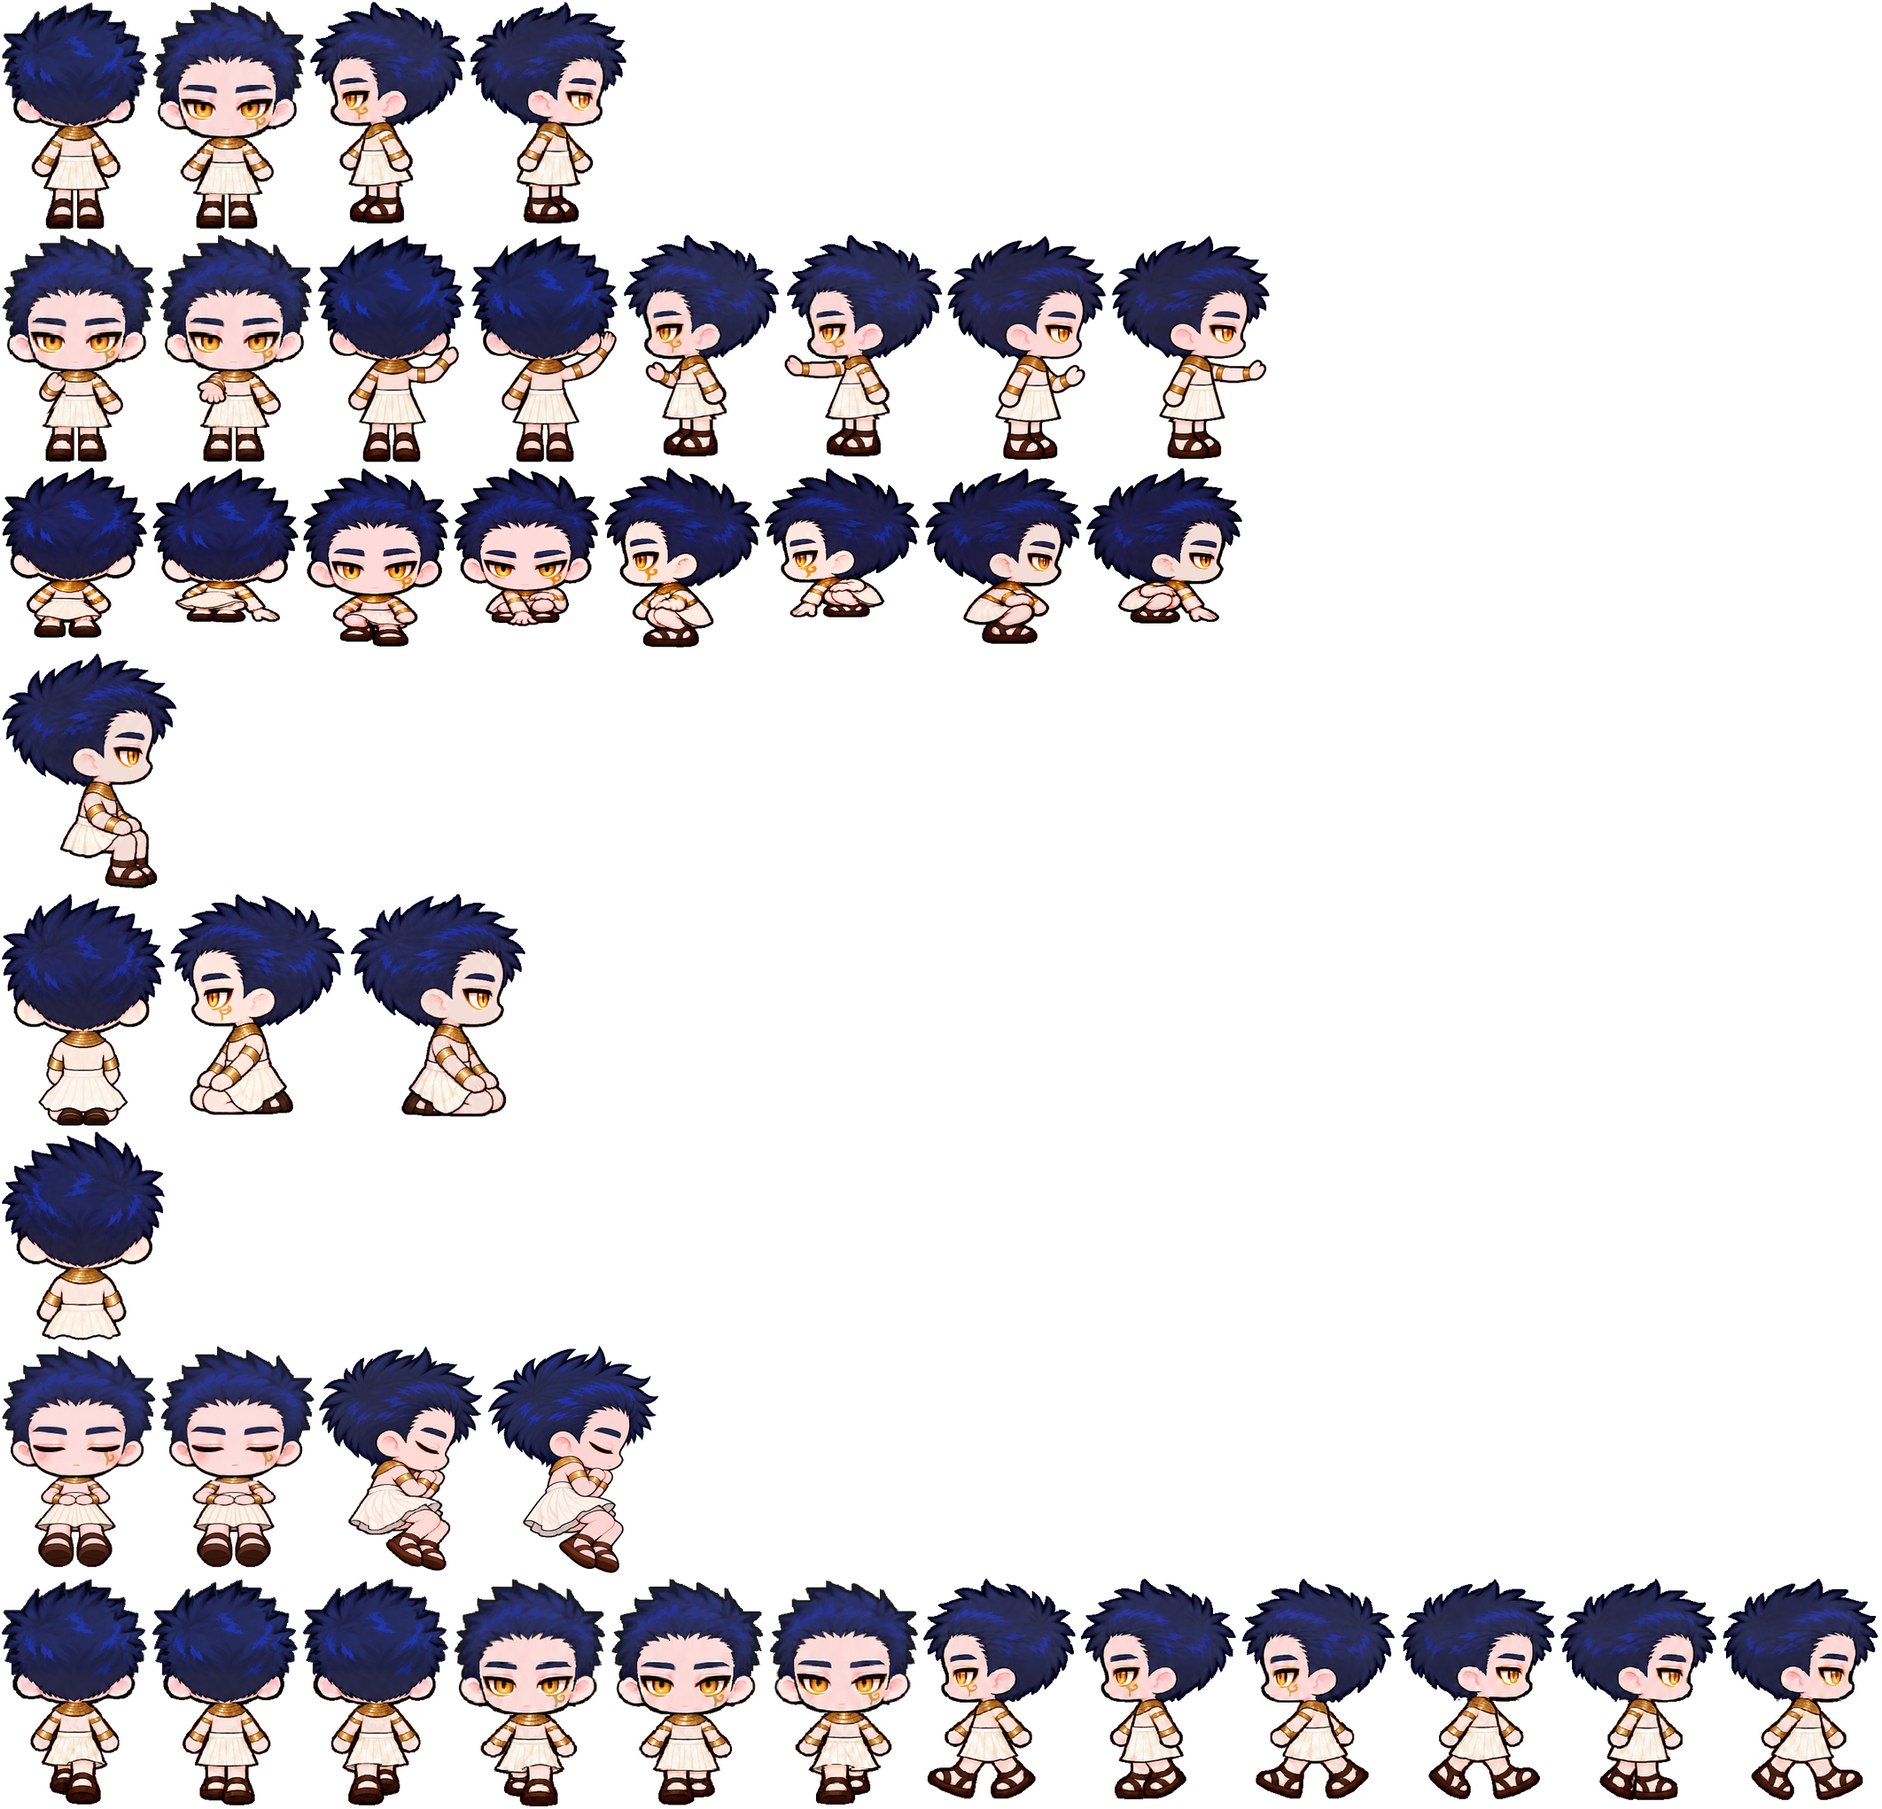
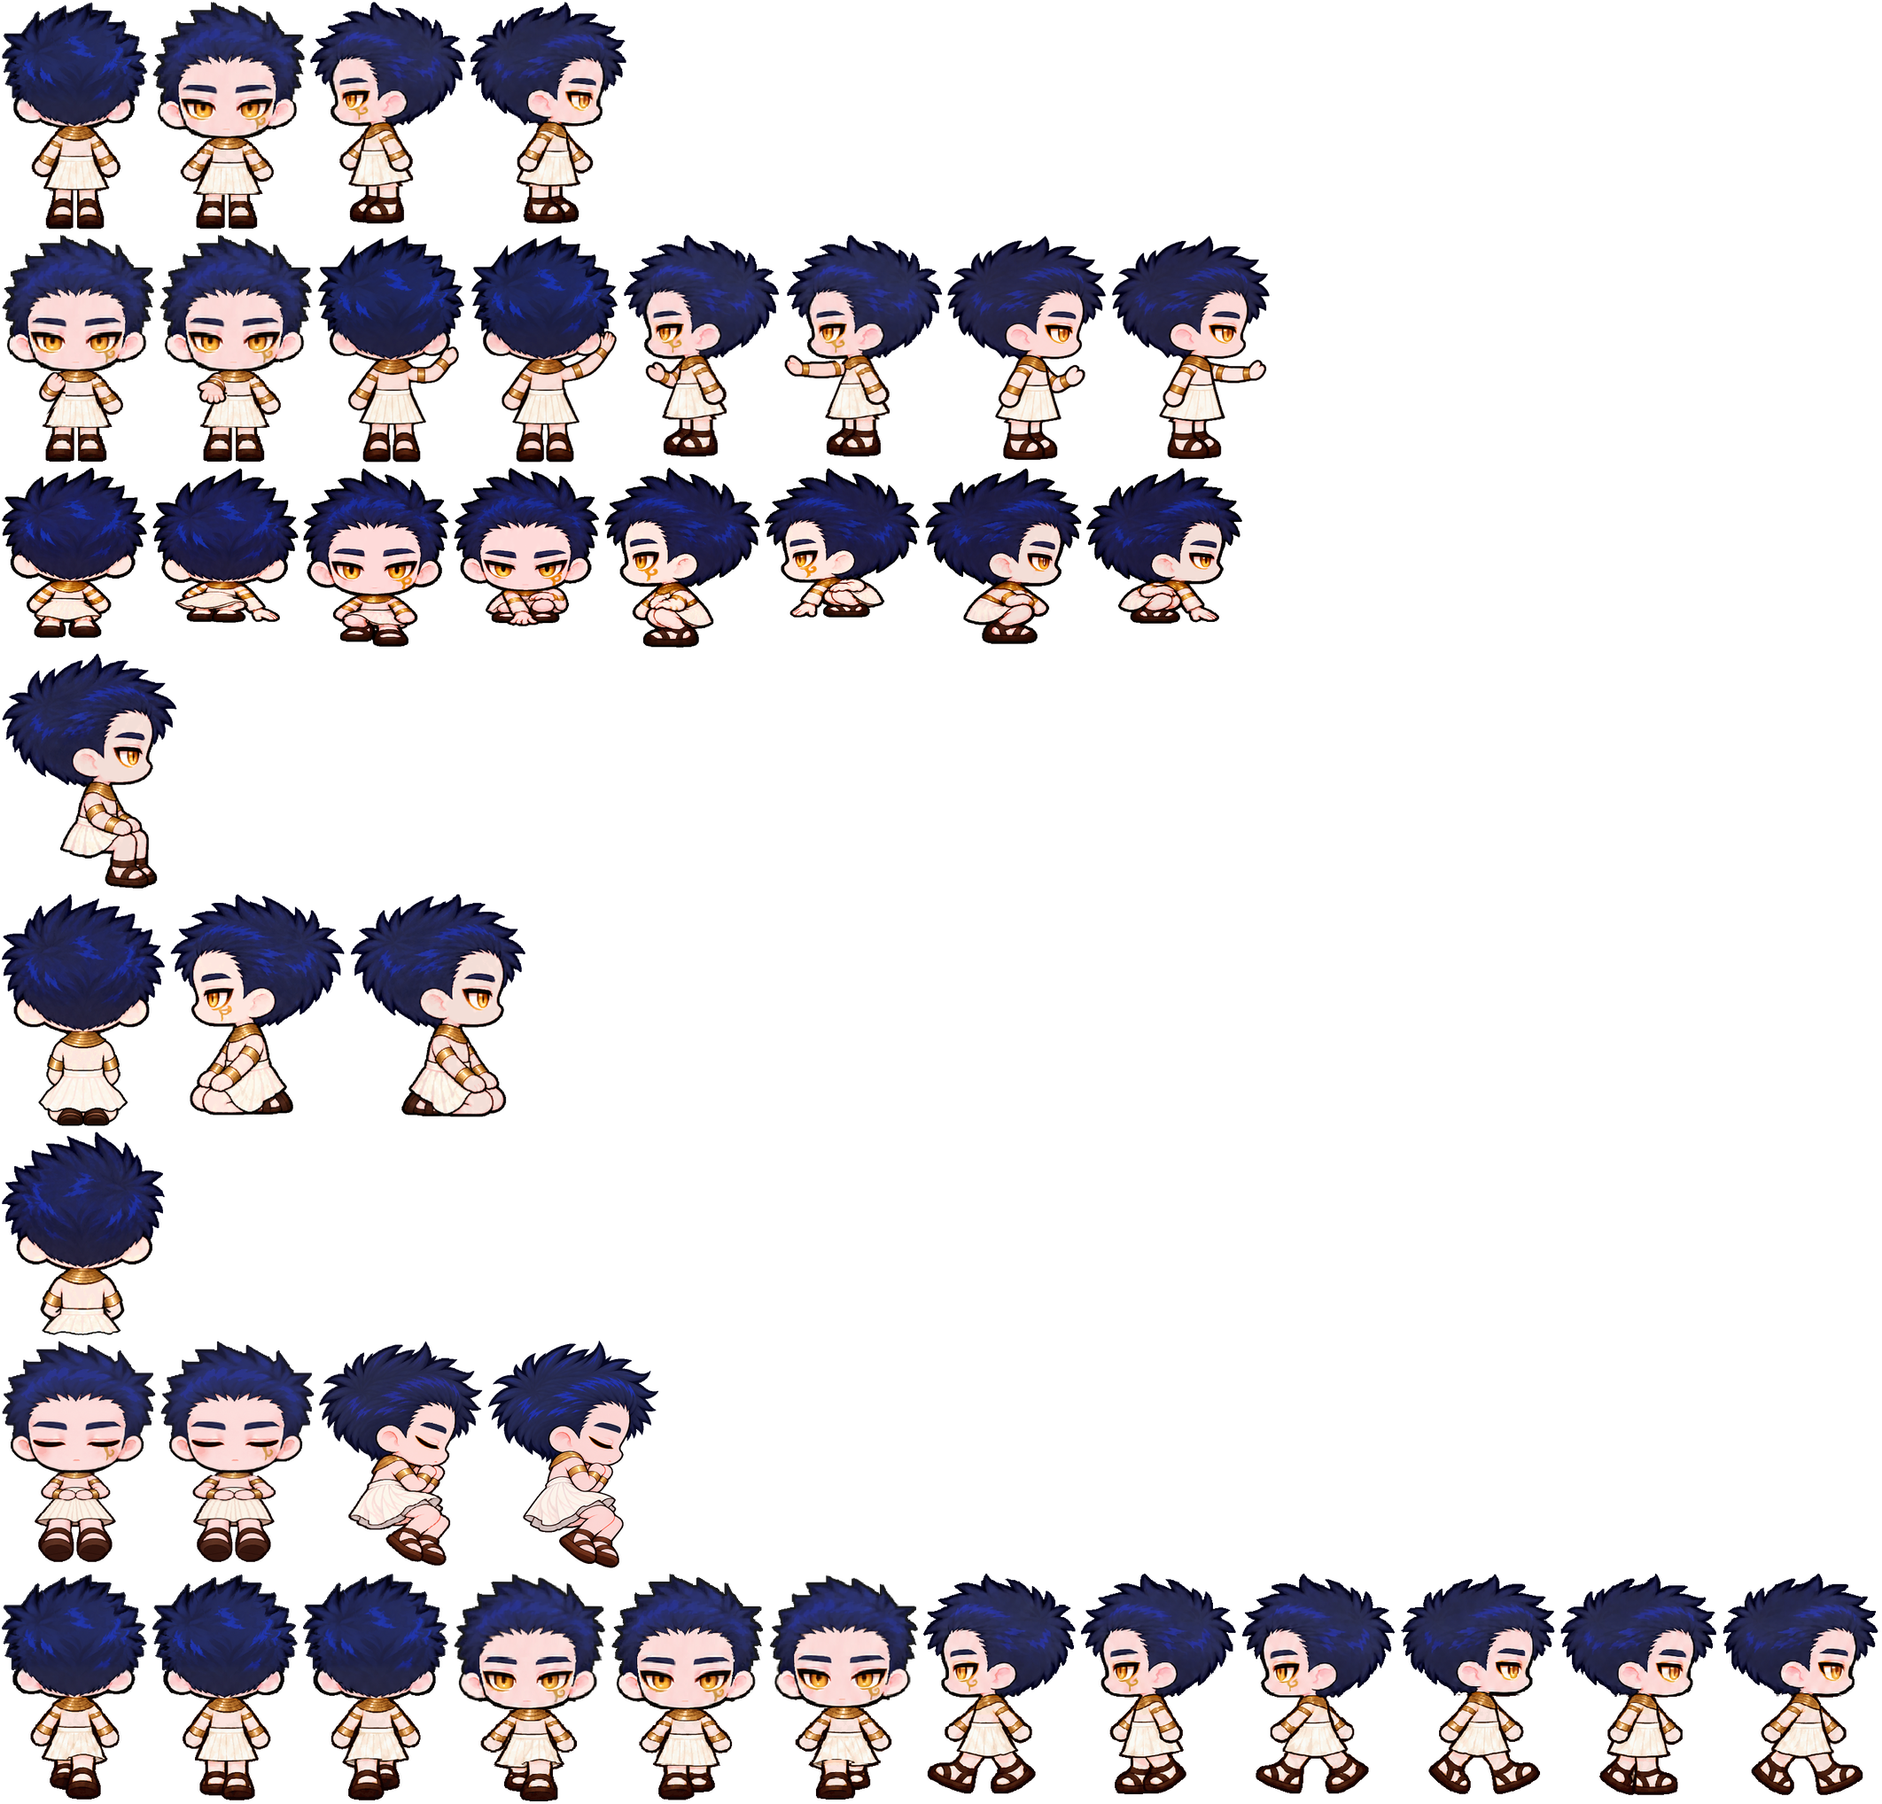
0.9.46 호루스 걸상 뒷모습: 허리 내리고 치마 70%, 사용자가 그린 팔 적용, 치마 끝이 걸상 판 위
Claude-Session: https://claude.ai/code/session_012wVD34xUYduugGp5rrKwnw

diff --git a/src/core/settings.js b/src/core/settings.js
@@ -2,7 +2,7 @@
 
 import { ctx } from './st.js';
 
-export const VERSION = '0.9.45';
+export const VERSION = '0.9.46';
 export const MODULE = 'sand_feather';
 export const PROMPT_KEY = 'sand_feather_world';
 export const UI_THEMES = [

diff --git a/docs/OPUS-HANDOFF.md b/docs/OPUS-HANDOFF.md
@@ -1,6 +1,6 @@
 # 오푸스 인수인계 — 게임 적용과 코드 (지금 기준만)
 
-**오푸스용 문서다.** 갱신 2026-10-12, **0.9.45** 기준. 처음 온 오푸스는 이 문서 하나만 처음부터 끝까지 읽으면 바로 일할 수 있게 썼다. 버전별 변경은 `CHANGELOG.md`, 작업별 상세는 아래 표의 기록 문서에 있다. 그림 작업 규칙은 아스트라용 [ASTRA-HANDOFF.md](ASTRA-HANDOFF.md)·[ASTRA-PLAN.md](ASTRA-PLAN.md)에 있다. 아트를 받을 때 채택 상태와 명세를 확인하는 용도로 본다.
+**오푸스용 문서다.** 갱신 2026-10-12, **0.9.46** 기준. 처음 온 오푸스는 이 문서 하나만 처음부터 끝까지 읽으면 바로 일할 수 있게 썼다. 버전별 변경은 `CHANGELOG.md`, 작업별 상세는 아래 표의 기록 문서에 있다. 그림 작업 규칙은 아스트라용 [ASTRA-HANDOFF.md](ASTRA-HANDOFF.md)·[ASTRA-PLAN.md](ASTRA-PLAN.md)에 있다. 아트를 받을 때 채택 상태와 명세를 확인하는 용도로 본다.
 
 ## 이 게임
 
@@ -50,7 +50,7 @@ SillyTavern 확장 "모래와 깃털"이다. 이집트 옴보스를 배경으로
 
 ## 버전과 검증
 
-- 버전은 `manifest.json`의 `version`과 `src/core/settings.js`의 `VERSION`을 같이 올린다. 지금은 **0.9.45**이다. 올릴 때 `CHANGELOG.md` 맨 위에 한 줄, README의 "현재 버전" 줄, 이 문서의 이 줄과 맨 위 기준 버전도 고친다. README에는 버전 내역을 쌓지 않는다.
+- 버전은 `manifest.json`의 `version`과 `src/core/settings.js`의 `VERSION`을 같이 올린다. 지금은 **0.9.46**이다. 올릴 때 `CHANGELOG.md` 맨 위에 한 줄, README의 "현재 버전" 줄, 이 문서의 이 줄과 맨 위 기준 버전도 고친다. README에는 버전 내역을 쌓지 않는다.
 - **검증 스크립트 세 개**(`tools/art/`, ST가 떠 있고 확장이 들어가 있어야 함). 출력 폴더를 인자로 준다. 셋 다 exit 0이어야 한다:
   ```sh
   export NODE_PATH=/opt/node-tools/node_modules
@@ -73,7 +73,7 @@ SillyTavern 확장 "모래와 깃털"이다. 이집트 옴보스를 배경으로
   - `bed-measure.js <폴더> '<[누구,[x,y,방향],이름] 목록>' [방]`: 한 사람만 침대 자리에 눕힌 화면과 뺀 화면. 두 장 차이의 박스가 그 사람(머리 위끝·턱 높이 재기)
   - 폰 크기는 412×900. 안채나 맵을 고치면 출구 걷기·낮밤도 본다.
 
-## 게임 지금 상태 — 0.9.45
+## 게임 지금 상태 — 0.9.46
 
 | 영역 | 내용 | 자세한 기록 |
 |---|---|---|
@@ -84,7 +84,7 @@ SillyTavern 확장 "모래와 깃털"이다. 이집트 옴보스를 배경으로
 | 일행 탭 UI | `src/ui/tabs.js partyCard`: 줄마다 `자세히`(`data-detail`)와 `앞장`(`data-lead`), 아래에 동행 고르기(`data-companion`). 하단 탭은 세계·일행·임무·지도 넷 | |
 | 자세히 카드 | `tabs.js characterCard(ui, id)`: 그림, 모험 등급, 능력치, 배움(앞장일 때만 고름). 그림은 `portraits.js picture(id)` → `data/art/portraits/gallery/` 일러스트(`GALLERY = {somang:1, set:3, horus:3}`, 한 장이면 ‹ › 숨김). 소망 일러스트는 원본 704×1216을 위쪽 2:3으로 잘라 512×768 WebP. 원본은 `docs/art/portraits-illust/gallery/`. 대화 카드 상반신과 미소 버튼은 뺐다(다시 넣지 않는다) | CHANGELOG 0.9.29·0.9.30 |
 | 셋소호 스프라이트 | 최종 48장(`docs/art/chibi-refresh/final/`: 정지 12장 620×720 발 기준점(310,662) 기준 키 576, 걷기 36장 360×400 기준점(180,370) 기준 키 330)과 채택 동작을 `tools/art/pack-trio-motion.py`로 패킹한다. `final/manifest.json`의 `runtimeEligible`이 true여야 한다. 결과는 캐릭터마다 한 장: `data/art/characters/trio-motion-<누구>.png`(256px, 0.9.34 기준 가장 큰 세트 2866×1297)·`-small.png`(폰 125px), 연결은 `data/sprites.json`의 `looks.<who>.motion`(`file`, `small.file`). 표시 높이 31.2 논리 px(폰에서 얼굴이 손톱만 함), 걷기 0-1-2-1 180ms. **아틀라스가 4096px을 넘으면 폰에서 안 그려질 수 있다.** 그래서 0.9.33에 캐릭터별로 나눴다. 동작이 더 늘어 한 캐릭터 것이 4096에 가까워지면 동작을 그 캐릭터의 두 번째 아틀라스로 나눈다(렌더러는 `motion.file`/`small.file` 하나만 읽으므로 그때 프레임마다 파일을 가리키게 바꿔야 한다) | [TRIO-MOTION-098.md](TRIO-MOTION-098.md) |
-| 동작 | `motion.acts[동작][방향][프레임]` + `actPlay[동작] = {frameMs, loop, hold}`. 그리는 쪽 `render.js motionPerson`의 `anim.act`: 보통은 한 번 재생 후 마지막 장 220ms 머물고 정지, `hold`(앉기)는 마지막 장 유지, `loop`(잠들기)는 반복. hold·loop일 땐 발 그림자를 안 그린다. 프레임의 기준점은 manifest `anchor`(발 / 앉은 자리 / 몸 가운데)가 그대로 pivot이 된다. **말 걸기**(`interact`): 셋 다 4방향(소망 172, 세트 174·175, 호루스 176·177). **줍기**(`pickup`): 셋 다 4방향(소망 181, 호루스 182, 세트 185; 세트·호루스는 `pickup-trio-v182` 한 폴더). 땅의 것(모험 touch·find, 벽화 아닌 비밀)은 thing에 `pose: 'pickup'`, 그 캐릭터에게 그림이 없으면 손 뻗기(`window.js talk`, 카드가 열리기까지 `ACT_MS` = interact 260 / pickup 380ms). **앉기**: 셋 다(소망 방석 왼쪽 179 + `sit-trio-v190` 14장, 호루스 5장은 0.9.43에 머리 ×1.12·몸 ×1.10, 걸상 뒷모습 3장은 0.9.44·0.9.45에 다리를 뺌, 호루스 걸상 기준점은 치마 끝이 걸상 판 위에 오게 585). 한 묶음 안의 자리별 그림은 패커가 파일의 `seatType`으로 동작 이름을 나눈다: `sit-floor`(방석 왼·오·위), `sit-stool`(걸상, 위), `sit-bench`(긴 의자, 오른쪽). 기준점은 파일마다 manifest의 엉덩이 아래(seat-bottom). **잠들기**(`sleep`): 셋 다 2프레임 숨쉬기 800ms loop(`sleep-trio-v220`), 바로 눕기 `down`, 세트·호루스 옆잠 `right` | 아래 "동작 넣는 법" |
+| 동작 | `motion.acts[동작][방향][프레임]` + `actPlay[동작] = {frameMs, loop, hold}`. 그리는 쪽 `render.js motionPerson`의 `anim.act`: 보통은 한 번 재생 후 마지막 장 220ms 머물고 정지, `hold`(앉기)는 마지막 장 유지, `loop`(잠들기)는 반복. hold·loop일 땐 발 그림자를 안 그린다. 프레임의 기준점은 manifest `anchor`(발 / 앉은 자리 / 몸 가운데)가 그대로 pivot이 된다. **말 걸기**(`interact`): 셋 다 4방향(소망 172, 세트 174·175, 호루스 176·177). **줍기**(`pickup`): 셋 다 4방향(소망 181, 호루스 182, 세트 185; 세트·호루스는 `pickup-trio-v182` 한 폴더). 땅의 것(모험 touch·find, 벽화 아닌 비밀)은 thing에 `pose: 'pickup'`, 그 캐릭터에게 그림이 없으면 손 뻗기(`window.js talk`, 카드가 열리기까지 `ACT_MS` = interact 260 / pickup 380ms). **앉기**: 셋 다(소망 방석 왼쪽 179 + `sit-trio-v190` 14장, 호루스 5장은 0.9.43에 머리 ×1.12·몸 ×1.10, 걸상 뒷모습 3장은 0.9.44·0.9.45에 다리를 뺌, 호루스 걸상 뒷모습은 0.9.46에 허리 10px 내림·치마 70 %·사용자가 그린 팔, 기준점 572로 치마 끝이 걸상 판 위). 한 묶음 안의 자리별 그림은 패커가 파일의 `seatType`으로 동작 이름을 나눈다: `sit-floor`(방석 왼·오·위), `sit-stool`(걸상, 위), `sit-bench`(긴 의자, 오른쪽). 기준점은 파일마다 manifest의 엉덩이 아래(seat-bottom). **잠들기**(`sleep`): 셋 다 2프레임 숨쉬기 800ms loop(`sleep-trio-v220`), 바로 눕기 `down`, 세트·호루스 옆잠 `right` | 아래 "동작 넣는 법" |
 | 게임 하루·쉬기 | `src/core/rest.js`, `src/packs/life/rest.js`. 게임 하루 = `ledger.today(s)` = 챗 날짜와 `s.ledger.gday` 중 늦은 쪽(태양 기운·매일 의뢰·결산·텃밭·하루 한 번 행동이 전부 이걸 씀). 침대(`set_bed`)에서 `sleepNow`: 태양 기운이 절반 이하일 때만, `gday = today+1` → `newDays` → `day:started`(태양 기운·의뢰·결산이 기존 흐름대로). 챗이 그 날짜에 오면 새 날이 아니라 두 번 안 센다. 자고 나면 `s.wake = {part:'dawn', raw}`로 화면 시간대만 아침(`partNow(s)`, 챗 트래커 raw가 바뀌면 해제). 게임 판정(비밀, 두아트 문, 선착장, 축제, HUD, 그림)은 `partNow`, **챗 주입·모험 생성·서랍은 `s.part` 그대로.** 화면 위 날짜도 챗 날짜 그대로다. 앉아 쉬기(`temple_table`, `colonnade_seat`)는 태양 기운 +1, 게임 하루 2번(`ledger.acts rest:sit:1/2`), 가득 차 있으면 횟수를 안 씀. 자리 좌표는 `packs/life/rest.js SEATS/BEDS`: 자세 기준점이 놓이는 칸 좌표·방향·동작 이름. 앉을 곳(0.9.41): 식사 공간 `temple_table`(식탁 오른쪽 끝 장소, 오른쪽 방석)·`temple_table_mid`(앞 가운데 방석, 뒷모습. 0.9.42), 세트 방 `set_table`(낮은 탁자 왼쪽 8.4·오른쪽 12.3 방석, 선 자리에 가까운 쪽), `set_desk`·`horus_desk`·`somang_mirror`(걸상 뒷모습), `somang_chair`(소망 방 긴 의자, 오른쪽 보기). `colonnade_seat`(열주 계단 긴 의자)는 정면으로 앉는 그림이 없어 아직 비어 있다. 앉거나 누워 있는 동안 머리 위 "살펴보기" 표시는 숨긴다(`window.js draw`). 그 캐릭터·방향 그림이 있을 때만 앉은·누운 그림(`player.holdPose`, 원래 자리는 `player.seat`에 보관, 저장 위치도 원래 자리), 없으면 선 채로 효과만. 움직이거나 말 걸기를 누르면 원래 자리에서 일어남(`getUp`). 침대 이불로 몸을 가리는 occluder는 아직 없다(누운 그림이 이불 위에 보임). 0.9.34부터 셋 다 잠들기 2프레임(숨쉬기, `sleep-trio-v220`): 바로 눕기 `sleep.down`, 세트·호루스 옆으로 눕기 `sleep.right`(패킹만, 같이 자기용, 아직 안 씀). 자리는 `BEDS.set_bed`에 사람별: 소망 오른쪽 베개(x 17.55, y 3.98; 0.9.35 머리 112 %·몸 85 %로 바꾼 뒤), 세트·호루스 왼쪽(15.7), `side`(옆으로, 왼쪽 베개, 오른쪽을 봄). `bedPlace(id, who, side)`. 같이 자기: `bedPair(id, lead, mate)` → 오른쪽 베개는 소망(없으면 호루스, `BEDS.right`), 왼쪽은 옆잠(`side`). 동행 자세는 `player.mate`(`holdMate`, `getUp`·`placePlayer`가 지움), `window.js draw()`가 동행을 따라오는 대신 그 자리에 눕혀 그린다. 0.9.40부터 호루스 방 침대(`horus_bed`, 스팟 6.2,7.2)도 같다: 같은 침대 그림이 91 % 크기라(머리판·베개로 맞춤, 상관 0.95) 세트 침대 자리를 그대로 옮겼다(머리는 기준점 0.75칸 위로 두고 베개에 맞춤, 소망만 x 5.32로 세트 머리와 안 겹치게) | CHANGELOG 0.9.32 |
 | 카드(팝업) | `src/ui/popups.js`의 `showCard`. 테두리와 제목은 고정, 안쪽 `.sf_pop_scroll`만 스크롤 | CHANGELOG 0.9.22 |
 | 성능 | 지도는 보이는 부분만 그린다. 이동은 실제 시간 기준 0.05초 단위. 지도 그림은 그 지도에 있을 때만 풀어 둔다(`lazy`). 잠든 동안만 걷기 fps로 그린다(호흡) | [PERF-0917.md](PERF-0917.md) |

diff --git a/CHANGELOG.md b/CHANGELOG.md
@@ -2,6 +2,8 @@
 
 README에서 옮긴 버전별 변경 내역이다. 위가 최신이다. 지금 상태는 [README](README.md)와 [오푸스 인수인계](docs/OPUS-HANDOFF.md)를 본다.
 
+**0.9.46:** 호루스 걸상 뒷모습: 허리를 10px 내리고 치마를 70 %로 줄였고(b안), 팔은 사용자가 직접 그린 수정본대로 아래팔이 앞으로 굽어 짧게 끝나고 접히는 선이 생겼다. 치마 끝이 걸상 판 위에 오게 자리를 맞췄다.
+
 **0.9.45:** 세트·호루스 걸상 뒷모습에서도 다리를 뺐다(세트는 다리 자국·양옆 처진 덩어리를 치마 끝선과 잇고, 호루스는 치마 끝 외곽선 굵기를 옆과 맞춤). 호루스가 걸상 뒤에 선 것처럼 보이던 것을 다른 둘처럼 치마가 걸상 판 위에 얹히게 올렸다.
 
 **0.9.44:** 소망 걸상 뒷모습에서 다리를 뺐다(뒤에서 보면 다리는 앞으로 내려가 안 보임). 아래 주름단을 바깥 치마 끝선과 나란히 다시 맺고 드레스 외곽선을 이었다. 세트·호루스 걸상 뒷모습은 확인 중.

diff --git a/README.md b/README.md
@@ -20,7 +20,7 @@
 
 세트·호루스 RP 채팅 옆에서 돌아가는 이집트 오픈월드 게임이다. SillyTavern 확장으로 동작한다.
 
-**현재 버전 0.9.45.** 버전별 변경 내역은 [CHANGELOG.md](CHANGELOG.md)에 있다.
+**현재 버전 0.9.46.** 버전별 변경 내역은 [CHANGELOG.md](CHANGELOG.md)에 있다.
 
 ## 작업자는 여기부터
 
